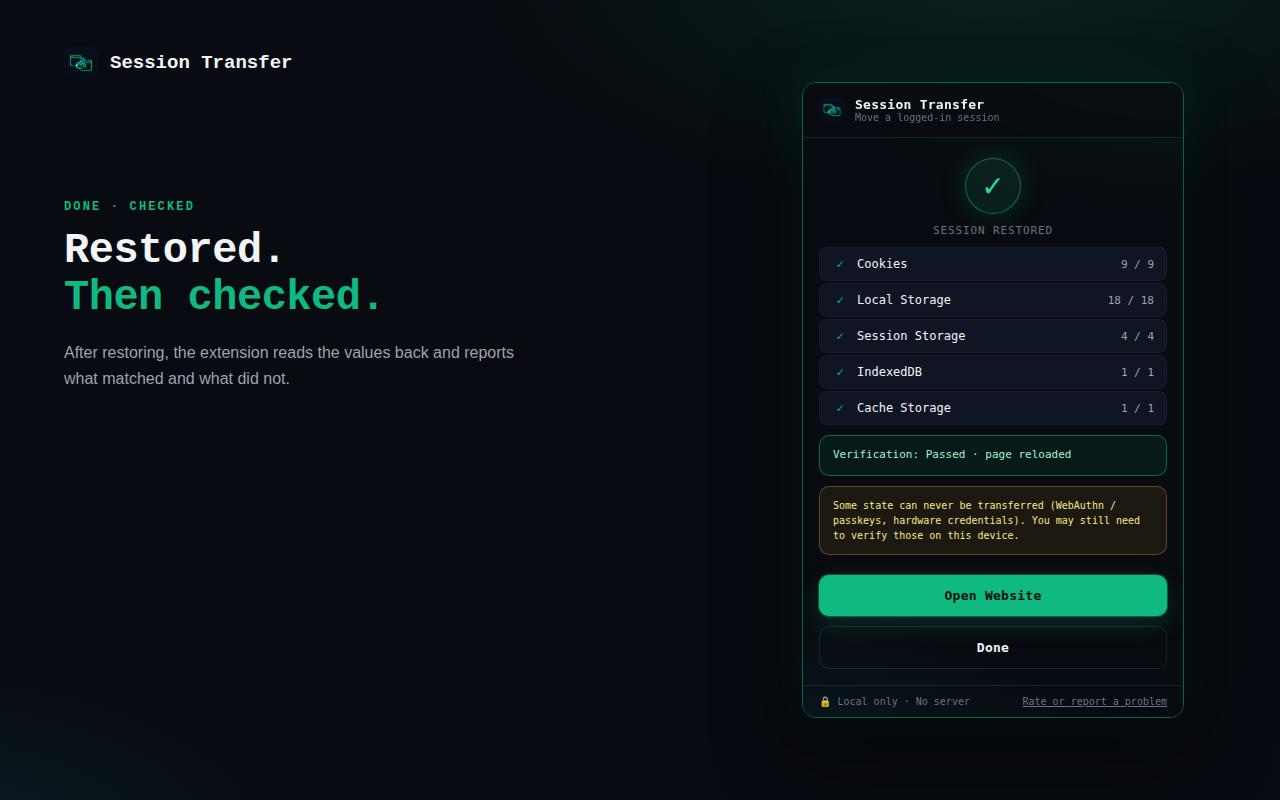
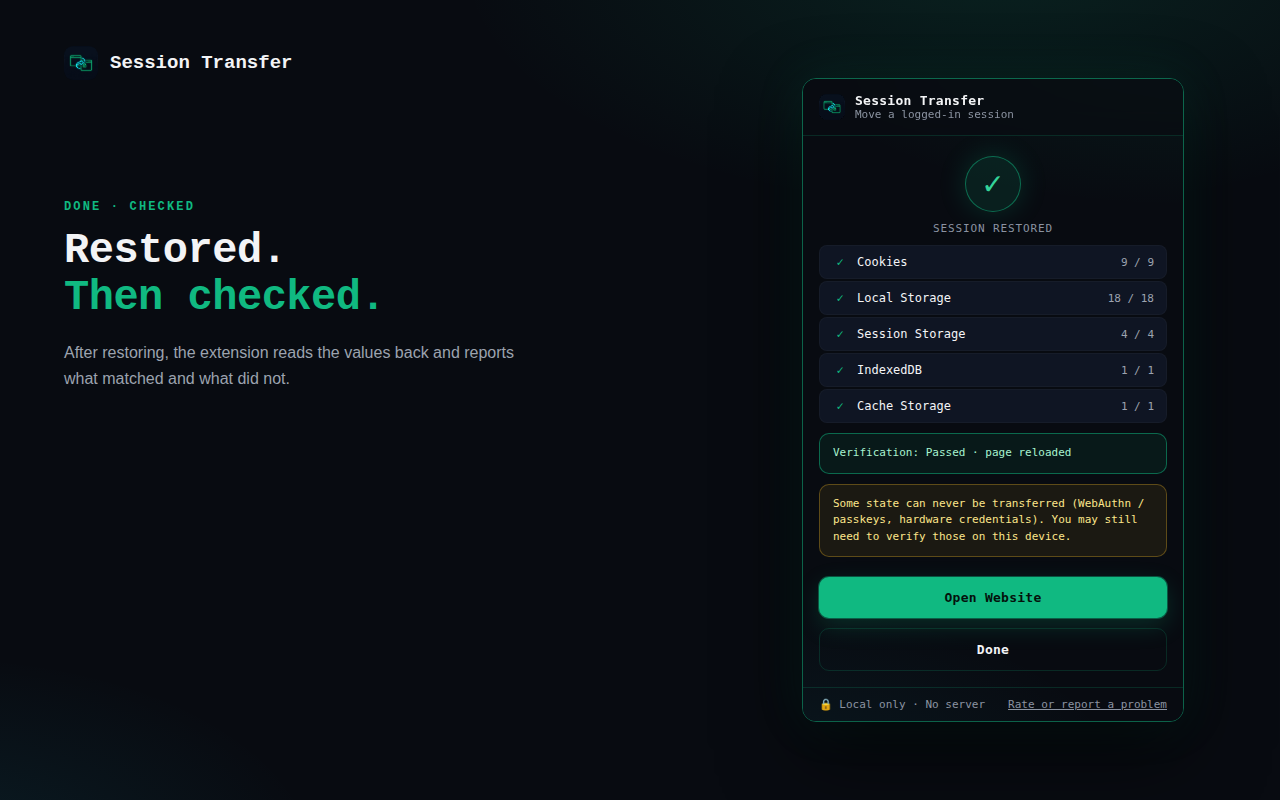
fix(popup): readable hints, keyboard focus ring, 11px minimum text (#31)
* fix(popup): readable hints, keyboard focus ring, 11px minimum text

--text-3 was #6b7280, 3.8:1 on the card surface at 10px, which fails WCAG AA;
it is now #8b93a1 (5.9:1). Buttons, link buttons, the footer link, the More
options summary, radios and the encrypt toggle get a visible focus ring for
keyboard users. Text under 11px (hints, footer, radio descriptions, inline
fontSize: 10 callouts) is raised to 11px, per docs/design/README.md.

Claude-Session: https://claude.ai/code/session_01L12RxZz8bufrHvF75FJmBs

* chore(store): refresh screenshots

* chore(store): refresh screenshots

* docs(changelog): note the popup readability and focus fixes

Claude-Session: https://claude.ai/code/session_01L12RxZz8bufrHvF75FJmBs

* fix(popup): keep the focus ring visible in forced-colors mode

Claude-Session: https://claude.ai/code/session_01L12RxZz8bufrHvF75FJmBs

---------

diff --git a/extension/src/popup/index.css b/extension/src/popup/index.css
@@ -6,7 +6,7 @@
   --border-strong: rgba(16, 185, 129, 0.5);
   --text: #f3f4f6;
   --text-2: #9ca3af;
-  --text-3: #6b7280;
+  --text-3: #8b93a1;
   --accent: #10b981;
   --accent-2: #34d399;
   --cyan: #22d3ee;
@@ -55,7 +55,7 @@ html, body {
   width: 26px; height: 26px; border-radius: 7px; display: block;
 }
 .header .title { font-family: var(--mono); font-size: 13px; font-weight: 700; letter-spacing: 0.02em; }
-.header .sub { font-size: 10px; color: var(--text-3); font-family: var(--mono); }
+.header .sub { font-size: 11px; color: var(--text-3); font-family: var(--mono); }
 
 .body { flex: 1; padding: 16px; display: flex; flex-direction: column; gap: 14px; }
 
@@ -95,6 +95,11 @@ html, body {
   display: inline-flex; align-items: center; justify-content: center; gap: 8px;
 }
 .btn:active { transform: translateY(1px); }
+.btn:focus-visible, .link-btn:focus-visible, .footer-link:focus-visible, .more summary:focus-visible,
+.radio:focus-within, .check-row:focus-within {
+  /* A transparent outline still shows in forced-colors mode, where box-shadow is dropped. */
+  outline: 2px solid transparent; box-shadow: 0 0 0 3px rgba(16, 185, 129, 0.35);
+}
 .btn:disabled { opacity: 0.45; cursor: not-allowed; }
 .btn.primary { background: var(--accent); color: #04120c; box-shadow: 0 0 0 1px rgba(16,185,129,0.4), 0 8px 24px rgba(16,185,129,0.20); }
 .btn.primary:hover:not(:disabled) { background: var(--accent-2); box-shadow: 0 0 0 1px rgba(52,211,153,0.6), 0 10px 30px rgba(16,185,129,0.30); }
@@ -152,11 +157,11 @@ html, body {
 .callout.danger { background: rgba(244,63,94,0.08); border: 1px solid rgba(244,63,94,0.3); color: #fecdd3; }
 .callout.ok { background: rgba(16,185,129,0.08); border: 1px solid var(--border-strong); color: #a7f3d0; }
 
-.hint { font-size: 10.5px; color: var(--text-3); text-align: center; font-family: var(--mono); line-height: 1.5; }
+.hint { font-size: 11px; color: var(--text-3); text-align: center; font-family: var(--mono); line-height: 1.5; }
 
 .footer { padding: 10px 16px; border-top: 1px solid var(--border); display: flex; align-items: center; justify-content: space-between; }
-.footer .lock { font-size: 10px; color: var(--text-3); font-family: var(--mono); display: flex; align-items: center; gap: 6px; }
-.footer .footer-link { font-size: 10px; color: var(--text-3); font-family: var(--mono); text-decoration: underline; }
+.footer .lock { font-size: 11px; color: var(--text-3); font-family: var(--mono); display: flex; align-items: center; gap: 6px; }
+.footer .footer-link { font-size: 11px; color: var(--text-3); font-family: var(--mono); text-decoration: underline; }
 .footer .footer-link:hover { color: var(--accent-2); }
 
 .spacer { flex: 1; }
@@ -182,7 +187,7 @@ html, body {
 }
 .radio.sel { border-color: var(--border-strong); background: rgba(16,185,129,0.06); }
 .radio .r-title { font-weight: 700; }
-.radio .r-desc { color: var(--text-3); font-size: 10.5px; margin-top: 2px; }
+.radio .r-desc { color: var(--text-3); font-size: 11px; margin-top: 2px; }
 .radio input { margin-top: 2px; accent-color: var(--accent); }
 
 .check-row { display: flex; align-items: center; gap: 9px; font-family: var(--mono); font-size: 11.5px; color: var(--text-2); cursor: pointer; }
@@ -201,7 +206,7 @@ html, body {
 .step.done { border-color: var(--accent); background: rgba(16,185,129,0.06); }
 .step-head { display: flex; align-items: baseline; justify-content: space-between; gap: 8px; font-family: var(--mono); }
 .step-title { font-size: 13px; font-weight: 700; }
-.step-what { font-size: 10px; font-weight: 400; color: var(--text-3); margin-left: 4px; }
+.step-what { font-size: 11px; font-weight: 400; color: var(--text-3); margin-left: 4px; }
 .step-status { font-size: 11px; color: var(--text-3); white-space: nowrap; }
 .step.done .step-status, .step-check { color: var(--accent-2); }
 .step-actions { display: flex; gap: 8px; }

diff --git a/extension/src/popup/App.tsx b/extension/src/popup/App.tsx
@@ -769,7 +769,7 @@ function Receive({
       )}
 
       {packageText.length > LARGE_PACKAGE_CHARS ? (
-        <div className="callout info" style={{ fontSize: 10 }} data-testid="package-loaded-large">
+        <div className="callout info" data-testid="package-loaded-large">
           Large package loaded ({(packageText.length / 1024 / 1024).toFixed(0)} MB). It is not shown here.
         </div>
       ) : (
@@ -800,7 +800,7 @@ function Receive({
 
       <div className="spacer" />
       {missing && (
-        <div className="callout info" style={{ fontSize: 10 }} data-testid="receive-missing-hint">
+        <div className="callout info" data-testid="receive-missing-hint">
           {missing}
         </div>
       )}
@@ -834,7 +834,7 @@ function InspectReady({ summary, onImport, onBack }: { summary: PayloadSummary; 
       </div>
 
       {summary.unsupported.length > 0 && (
-        <div className="callout warn" style={{ fontSize: 10 }}>
+        <div className="callout warn">
           Not restored (by design): WebAuthn / passkeys, hardware credentials, TLS state.
         </div>
       )}
@@ -926,7 +926,7 @@ function Restored({ data, onOpen, onDone }: { data: { report: VerificationReport
         Verification: {report.passed ? 'Passed' : 'Partial'} · {report.reloaded ? 'page reloaded' : 'reload manually'}
       </div>
 
-      <div className="callout warn" style={{ fontSize: 10 }}>
+      <div className="callout warn">
         Some state can never be transferred (WebAuthn / passkeys, hardware credentials). You may still need to verify
         those on this device.
       </div>

diff --git a/CHANGELOG.md b/CHANGELOG.md
@@ -12,6 +12,7 @@ tag (release-platform stamps it into the built manifest), so the numbers below m
   session".
 - Receive keeps the pasted package and code after an error such as a wrong code, says plainly when the pasted text
   is not a package, and accepts a package up to one minute past expiry to allow for clock differences.
+- Popup hints are easier to read (lighter muted text, nothing below 11px) and keyboard focus now shows a visible ring.
 
 ### Changed
 - Store screenshots are generated from the real popup (`e2e/store-shots.spec.ts`) and the promo tiles no longer claim
